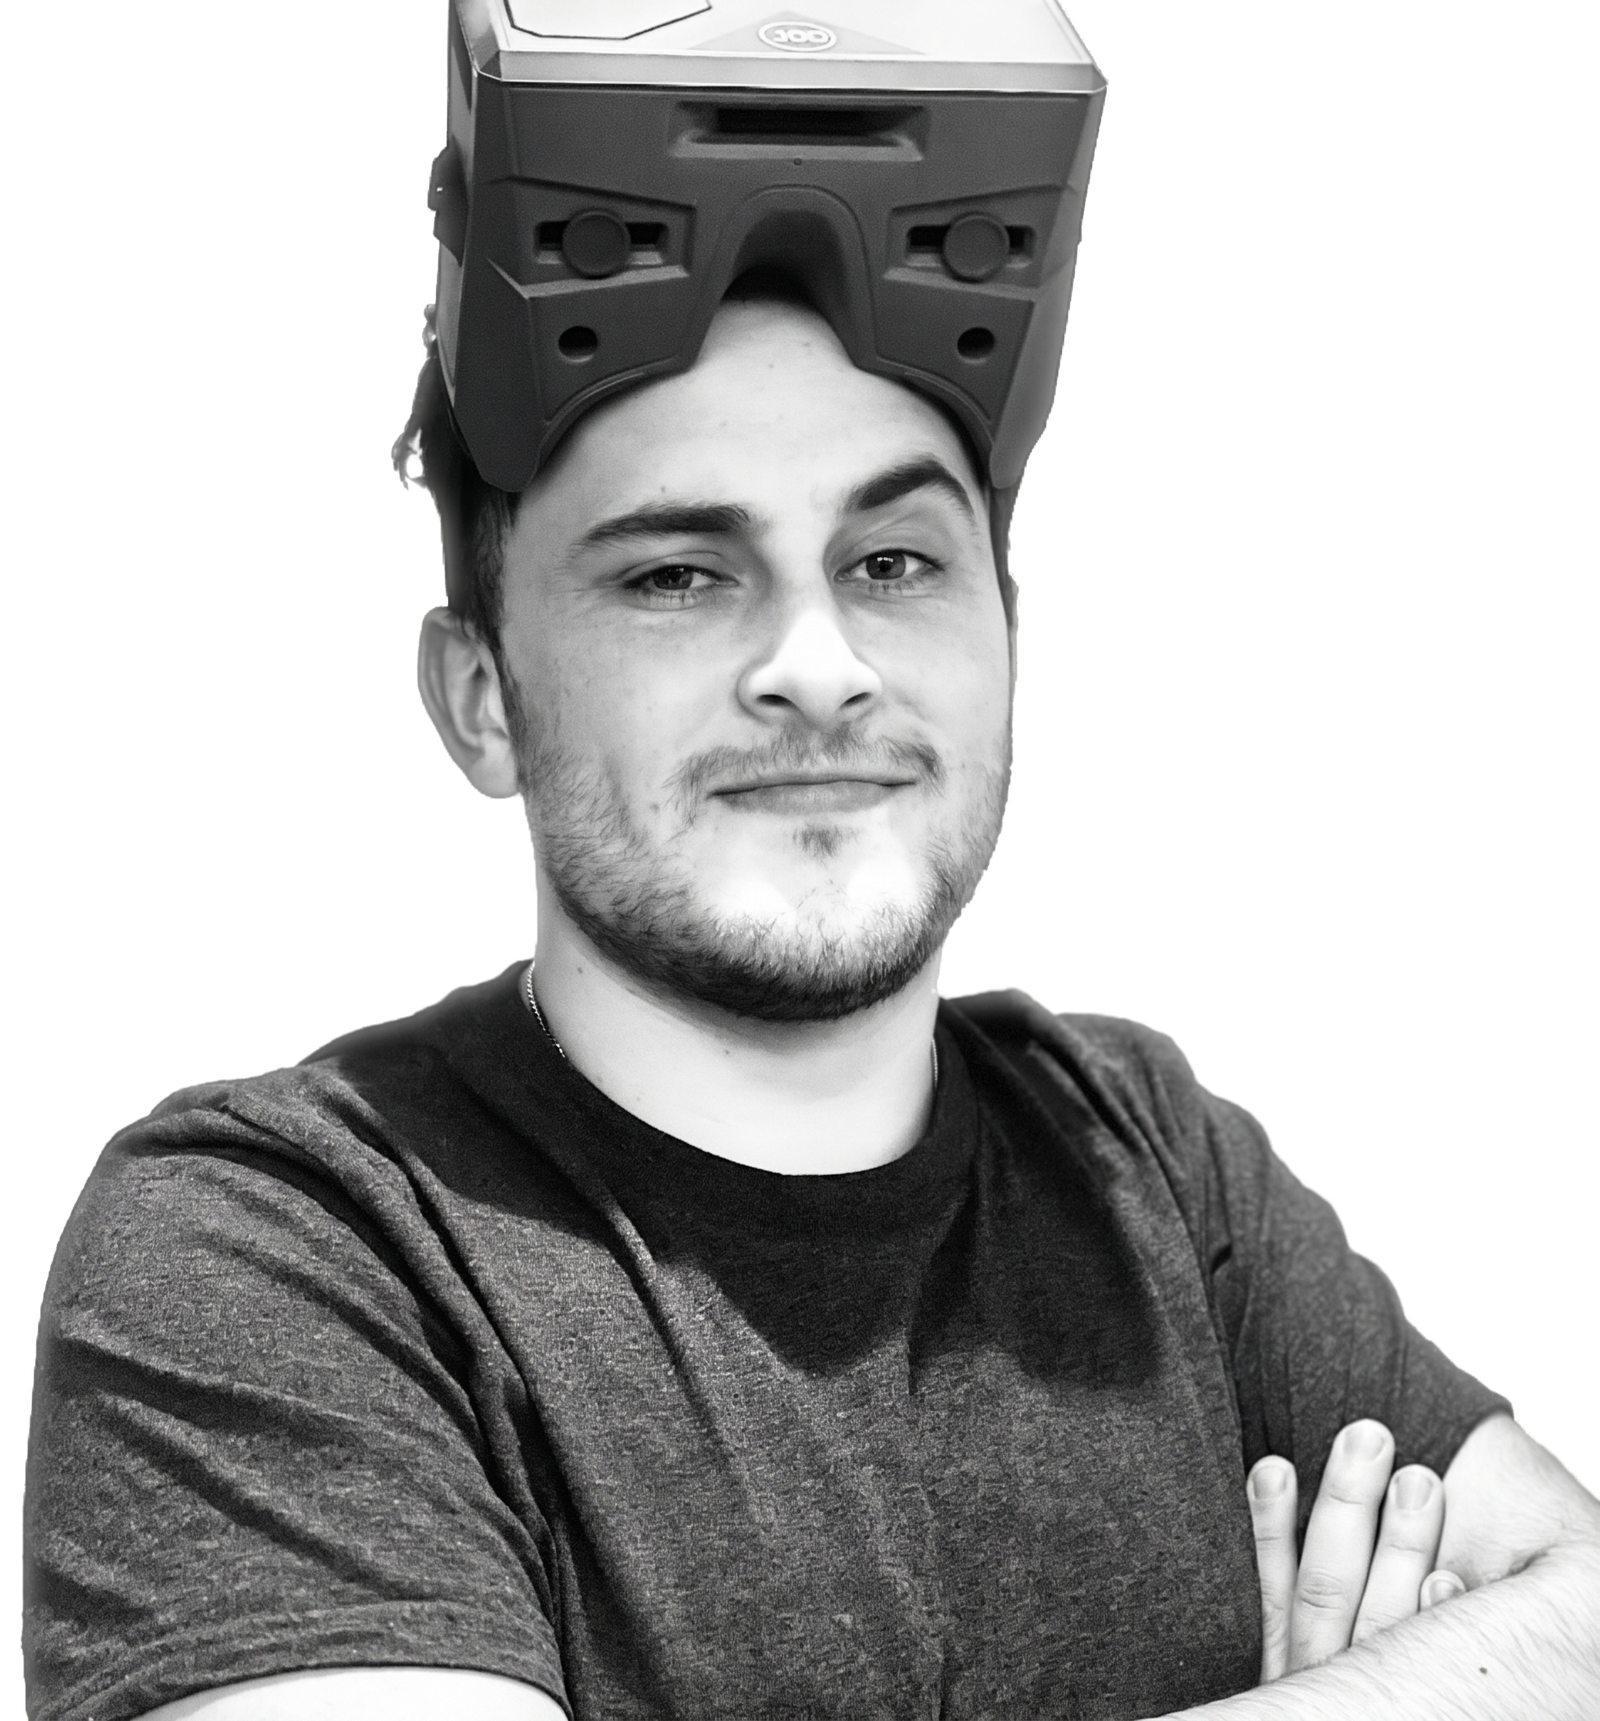
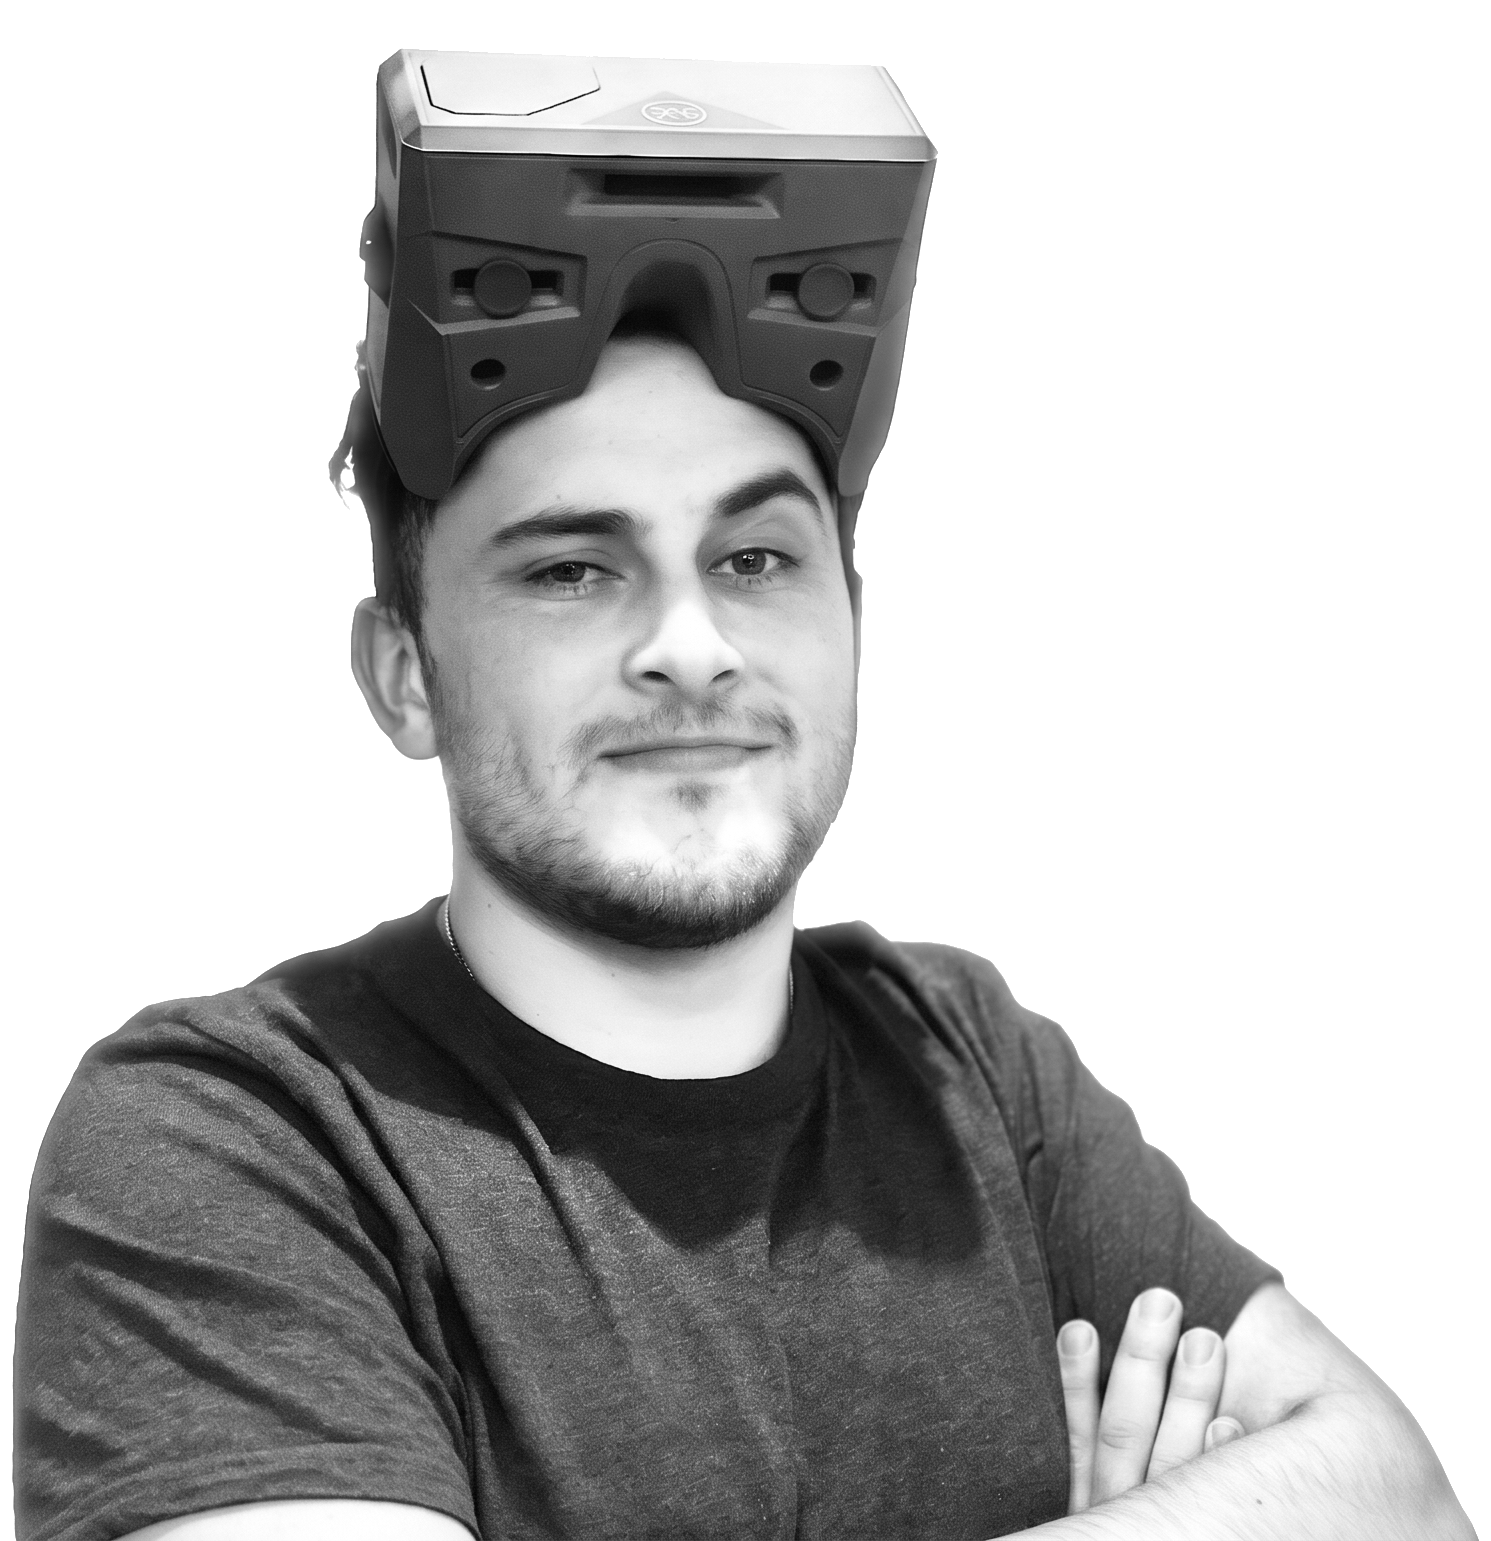
A new hero photo, cut out of its white backdrop with the headset plate, both shoulders and the hair whole; the mask fades only at the foot

diff --git a/tests/home.spec.ts b/tests/home.spec.ts
@@ -139,7 +139,8 @@ test.describe('Home', () => {
     });
     // the vertical fade (short at the top, eased over the last third) meets an ellipse, so the
     // lower sides and the bottom corners fade too and no straight edge is left
-    expect(mask.mask).toMatch(/linear-gradient\((to bottom, )?rgba\(0, 0, 0, 0\) 0%, rgb\(0, 0, 0\) 7%, rgb\(0, 0, 0\) 68%, rgba\(0, 0, 0, 0\.9\) 75%/);
+    expect(mask.mask).toMatch(/linear-gradient\((to bottom, )?rgb\(0, 0, 0\) 0%, rgb\(0, 0, 0\) 68%, rgba\(0, 0, 0, 0\.9\) 75%/);
+    expect(mask.mask, 'no fade at the top: the headset is whole in the picture').not.toMatch(/rgba\(0, 0, 0, 0\) 0%/);
     expect(mask.mask).toContain('radial-gradient(');
     expect(mask.mask.match(/gradient\(/g)?.length).toBe(2);
     expect(mask.composite, 'the two masks intersect').toMatch(/^intersect/);
